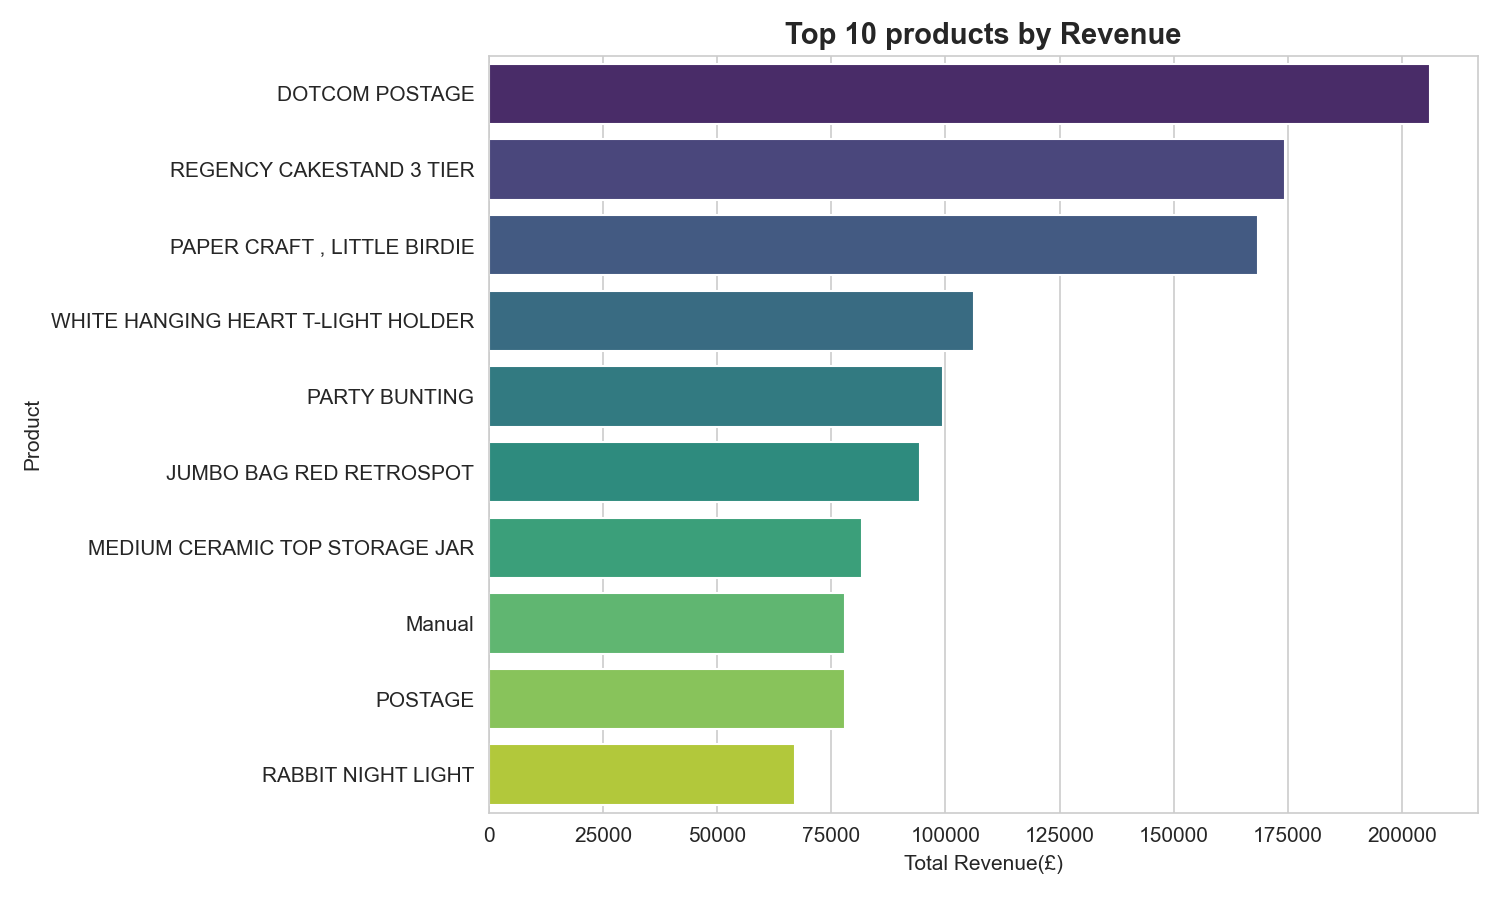
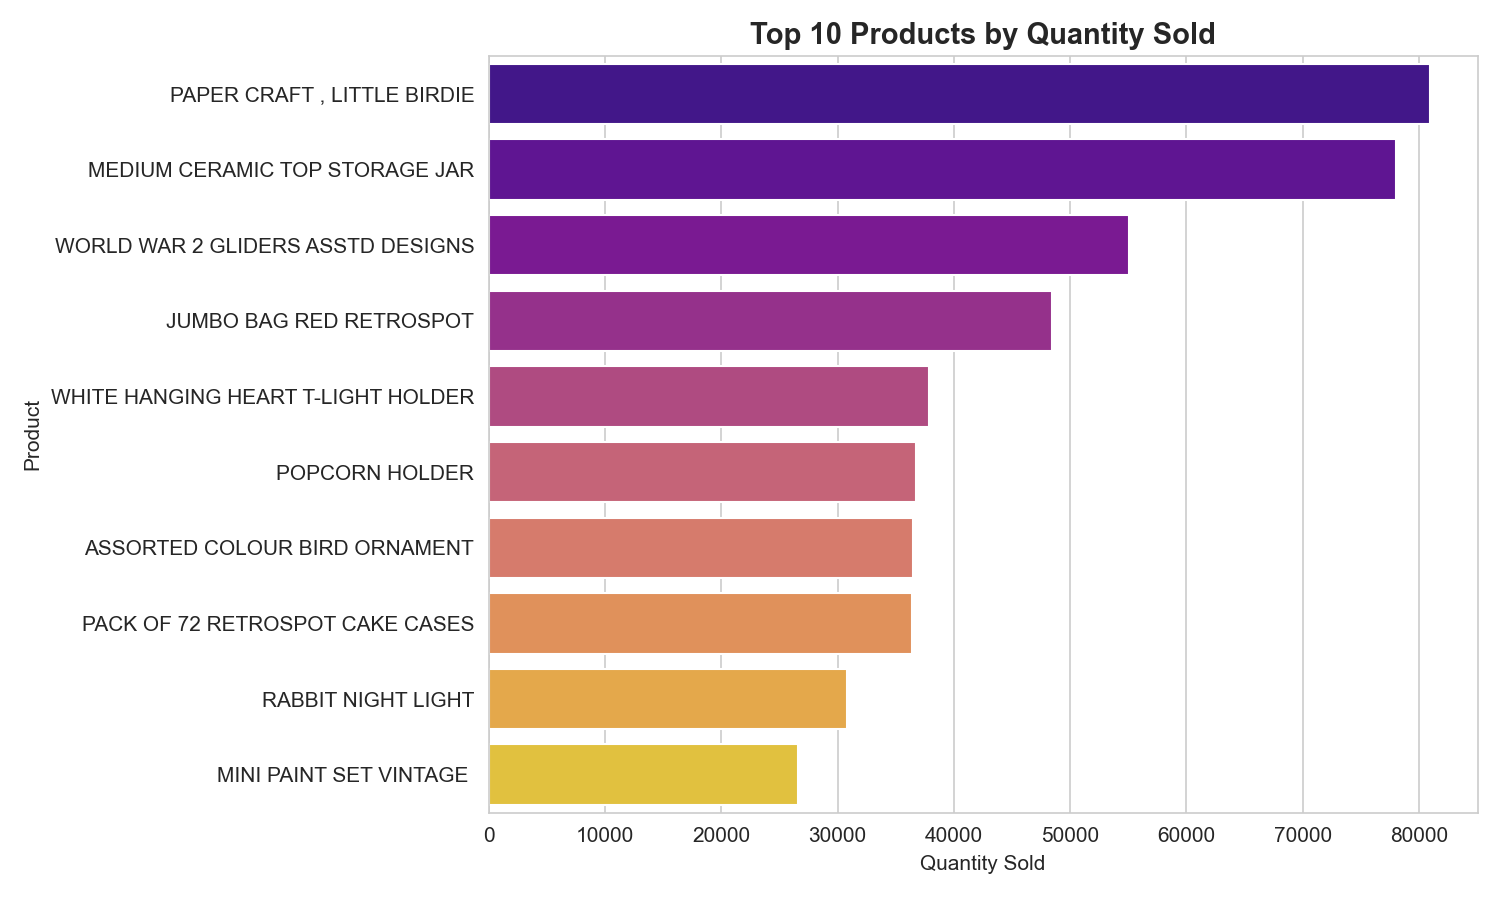
adding the dashboard file and updating the file

diff --git a/ecommerce_dashboard.py b/ecommerce_dashboard.py
@@ -1,0 +1,198 @@
+import numpy as np
+import pandas as pd
+import matplotlib.pyplot as plt
+import seaborn as sns
+import streamlit as st
+
+# ---------------------------------------------------------
+# Page Config (First calling page config)
+# ---------------------------------------------------------
+st.set_page_config(
+    page_title="Ecommerce Sales Dashboard",
+    page_icon="🛒",
+    layout="wide"
+)
+
+sns.set_style("whitegrid")
+
+# ---------------------------------------------------------
+# Data Load + Clean (Load Dataset)
+# ---------------------------------------------------------
+DATA_PATH = "data.csv"   
+
+
[email redacted]_data
+def load_data(path):
+    df = pd.read_csv(path,encoding="latin1")
+    df = df.dropna(subset=["Description"])
+
+    df["IsCancelled"] = df["InvoiceNo"].astype(str).str.startswith("C")
+
+    df_clean = df[
+        (~df["IsCancelled"]) &
+        (df["Quantity"] > 0) &
+        (df["UnitPrice"] > 0)
+    ].copy()
+
+    df_clean["InvoiceDate"] = pd.to_datetime(
+        df_clean["InvoiceDate"], format="%m/%d/%Y %H:%M"
+    )
+    df_clean["TotalPrice"] = np.multiply(df_clean["Quantity"], df_clean["UnitPrice"])
+    df_clean["Year"] = df_clean["InvoiceDate"].dt.year
+    df_clean["Month"] = df_clean["InvoiceDate"].dt.month
+    df_clean["Hour"] = df_clean["InvoiceDate"].dt.hour
+    df_clean["DayOfWeek"] = df_clean["InvoiceDate"].dt.day_name()
+    df_clean["YearMonth"] = df_clean["InvoiceDate"].dt.to_period("M").astype(str)
+
+    return df_clean
+
+
+df_clean = load_data(DATA_PATH)
+
+# ---------------------------------------------------------
+# Sidebar Filters 
+# ---------------------------------------------------------
+st.sidebar.header("Filters")
+
+countries = sorted(df_clean["Country"].unique().tolist())
+selected_countries = st.sidebar.multiselect(
+    "Country Option", options=countries, default=countries
+)
+
+min_date = df_clean["InvoiceDate"].min().date()
+max_date = df_clean["InvoiceDate"].max().date()
+date_range = st.sidebar.date_input(
+    "Date Range", value=(min_date, max_date),
+    min_value=min_date, max_value=max_date
+)
+
+# Filters apply karna
+mask = df_clean["Country"].isin(selected_countries)
+if len(date_range) == 2:
+    start_date, end_date = date_range
+    mask &= (df_clean["InvoiceDate"].dt.date >= start_date) & \
+            (df_clean["InvoiceDate"].dt.date <= end_date)
+
+filtered = df_clean[mask]
+
+# ---------------------------------------------------------
+# Title
+# ---------------------------------------------------------
+st.title("Ecommerce Sales Dashboard")
+st.markdown("Interactive view of revenue, products, customers aur trends.")
+
+# ---------------------------------------------------------
+# KPI Cards (top metrics row)
+# ---------------------------------------------------------
+total_revenue = filtered["TotalPrice"].sum()
+total_orders = filtered["InvoiceNo"].nunique()
+total_customers = filtered["CustomerID"].nunique()
+avg_order_value = filtered.groupby("InvoiceNo")["TotalPrice"].sum().mean()
+
+col1, col2, col3, col4 = st.columns(4)
+col1.metric("Total Revenue", f"£{total_revenue:,.0f}")
+col2.metric("Total Orders", f"{total_orders:,}")
+col3.metric("Total Customers", f"{total_customers:,}")
+col4.metric("Avg Order Value", f"£{avg_order_value:,.2f}")
+
+st.markdown("---")
+
+# ---------------------------------------------------------
+# Row 1: Monthly Trend + Top Countries
+# ---------------------------------------------------------
+row1_col1, row1_col2 = st.columns(2)
+
+with row1_col1:
+    st.subheader("Monthly Revenue Trend")
+    monthly_sales = filtered.groupby("YearMonth")["TotalPrice"].sum()
+    fig, ax = plt.subplots(figsize=(6, 4))
+    monthly_sales.plot(kind="line", marker="o", color="royalblue", ax=ax)
+    ax.set_xlabel("Year-Month")
+    ax.set_ylabel("Revenue (£)")
+    plt.xticks(rotation=45)
+    st.pyplot(fig)
+
+with row1_col2:
+    st.subheader("Top 10 Countries by Revenue")
+    country_revenue = (
+        filtered.groupby("Country")["TotalPrice"].sum()
+        .sort_values(ascending=False).head(10)
+    )
+    fig, ax = plt.subplots(figsize=(6, 4))
+    sns.barplot(x=country_revenue.values, y=country_revenue.index,
+                hue=country_revenue.index, palette="crest", legend=False, ax=ax)
+    ax.set_xlabel("Revenue (£)")
+    st.pyplot(fig)
+
+# ---------------------------------------------------------
+# Row 2: Top Products + Order Value Distribution
+# ---------------------------------------------------------
+row2_col1, row2_col2 = st.columns(2)
+
+with row2_col1:
+    st.subheader("Top 10 Products by Revenue")
+    top_products = (
+        filtered.groupby("Description")["TotalPrice"].sum()
+        .sort_values(ascending=False).head(10)
+    )
+    fig, ax = plt.subplots(figsize=(6, 4))
+    sns.barplot(x=top_products.values, y=top_products.index,
+                hue=top_products.index, palette="viridis", legend=False, ax=ax)
+    ax.set_xlabel("Revenue (£)")
+    st.pyplot(fig)
+
+with row2_col2:
+    st.subheader("📊 Order Value Distribution")
+    order_values = filtered.groupby("InvoiceNo")["TotalPrice"].sum().values
+    fig, ax = plt.subplots(figsize=(6, 4))
+    sns.histplot(order_values, bins=50, kde=True, color="teal", ax=ax)
+    ax.set_xlim(0, 1000)
+    ax.set_xlabel("Order Value (£)")
+    st.pyplot(fig)
+
+# ---------------------------------------------------------
+# Row 3: Sales by Day of Week + Hour
+# ---------------------------------------------------------
+row3_col1, row3_col2 = st.columns(2)
+
+day_order = ["Monday", "Tuesday", "Wednesday", "Thursday",
+             "Friday", "Saturday", "Sunday"]
+
+with row3_col1:
+    st.subheader("📅 Revenue by Day of Week")
+    sales_by_day = filtered.groupby("DayOfWeek")["TotalPrice"].sum().reindex(day_order)
+    fig, ax = plt.subplots(figsize=(6, 4))
+    sns.barplot(x=sales_by_day.index, y=sales_by_day.values,
+                hue=sales_by_day.index, palette="coolwarm", legend=False, ax=ax)
+    plt.xticks(rotation=45)
+    ax.set_ylabel("Revenue (£)")
+    st.pyplot(fig)
+
+with row3_col2:
+    st.subheader("🕒 Revenue by Hour of Day")
+    sales_by_hour = filtered.groupby("Hour")["TotalPrice"].sum()
+    fig, ax = plt.subplots(figsize=(6, 4))
+    sns.lineplot(x=sales_by_hour.index, y=sales_by_hour.values,
+                 marker="o", color="darkorange", ax=ax)
+    ax.set_xlabel("Hour")
+    ax.set_ylabel("Revenue (£)")
+    st.pyplot(fig)
+
+# ---------------------------------------------------------
+# Row 4: Top Customers Table
+# ---------------------------------------------------------
+st.subheader("👤 Top 10 Customers by Spend")
+customer_summary = filtered.groupby("CustomerID").agg(
+    TotalSpent=("TotalPrice", "sum"),
+    NumOrders=("InvoiceNo", "nunique"),
+    AvgOrderValue=("TotalPrice", "mean"),
+    LastPurchase=("InvoiceDate", "max")
+).sort_values("TotalSpent", ascending=False).head(10)
+
+st.dataframe(customer_summary, use_container_width=True)
+
+# ---------------------------------------------------------
+# Raw Data (optional expandable section)
+# ---------------------------------------------------------
+with st.expander("Raw Filtered Data Insight"):
+    st.dataframe(filtered.head(500), use_container_width=True)